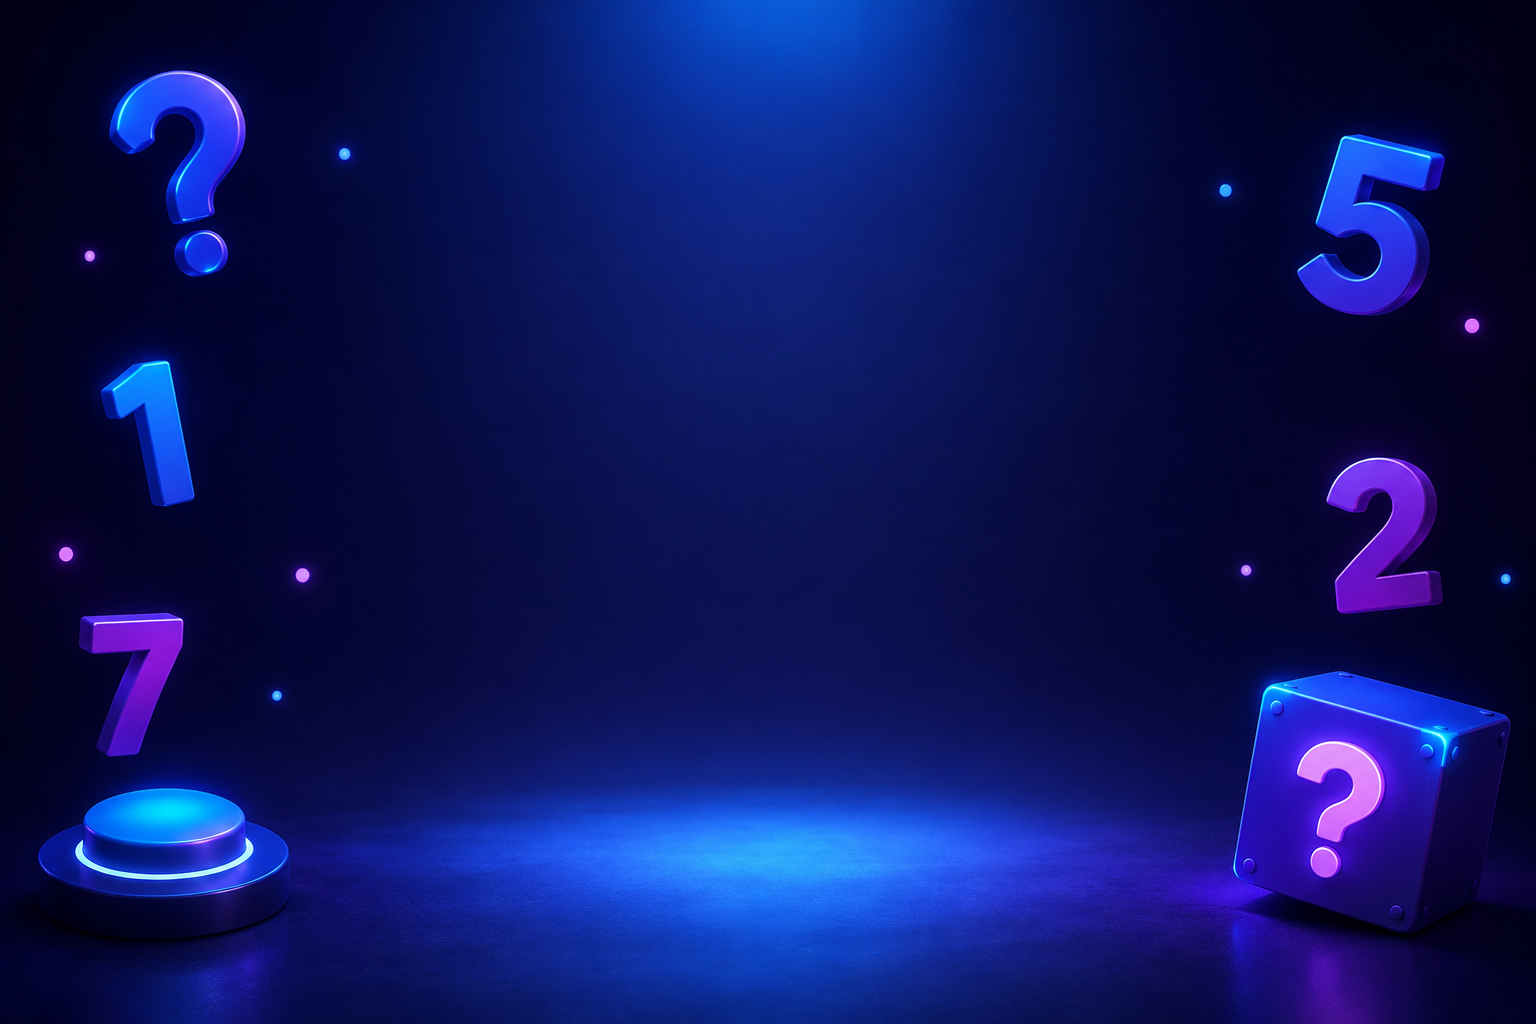
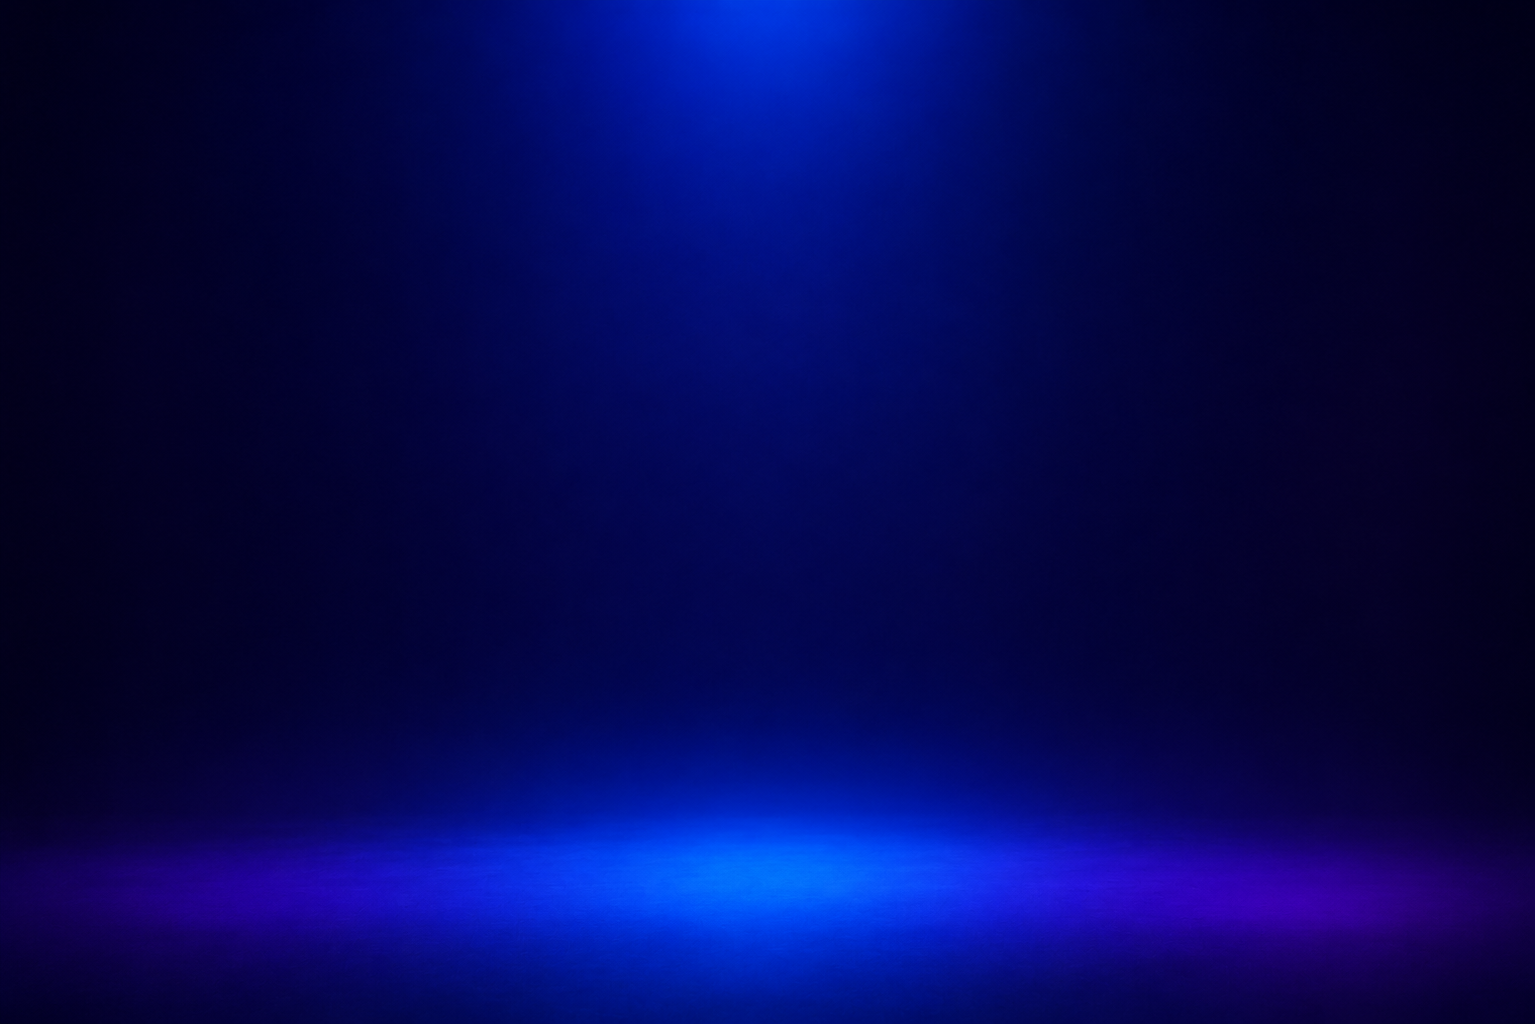
Update Day-6 Background

diff --git a/06-Number Guessing Game/style.css b/06-Number Guessing Game/style.css
@@ -6,7 +6,7 @@
 }
 
 body{
-
+    width: 100%;
     min-height: 100vh;
     display: flex;
     justify-content: center;
@@ -22,7 +22,7 @@ body{
 .container{
 
     width: 90%;
-    max-width: 500px; 
+    max-width: 600px; 
     text-align:center;
     padding: 40px;
     background: rgba(10,10,30,0.65);

diff --git a/06-Number Guessing Game/index.html b/06-Number Guessing Game/index.html
@@ -9,7 +9,7 @@
 <body>
 
     <div class="container">
-        <h1 >Number Guessing Game   </h1>
+        <h1 >Number Guessing Game</h1>
         
         <h2>Guess a Number between 1 - 50 </h2>
 